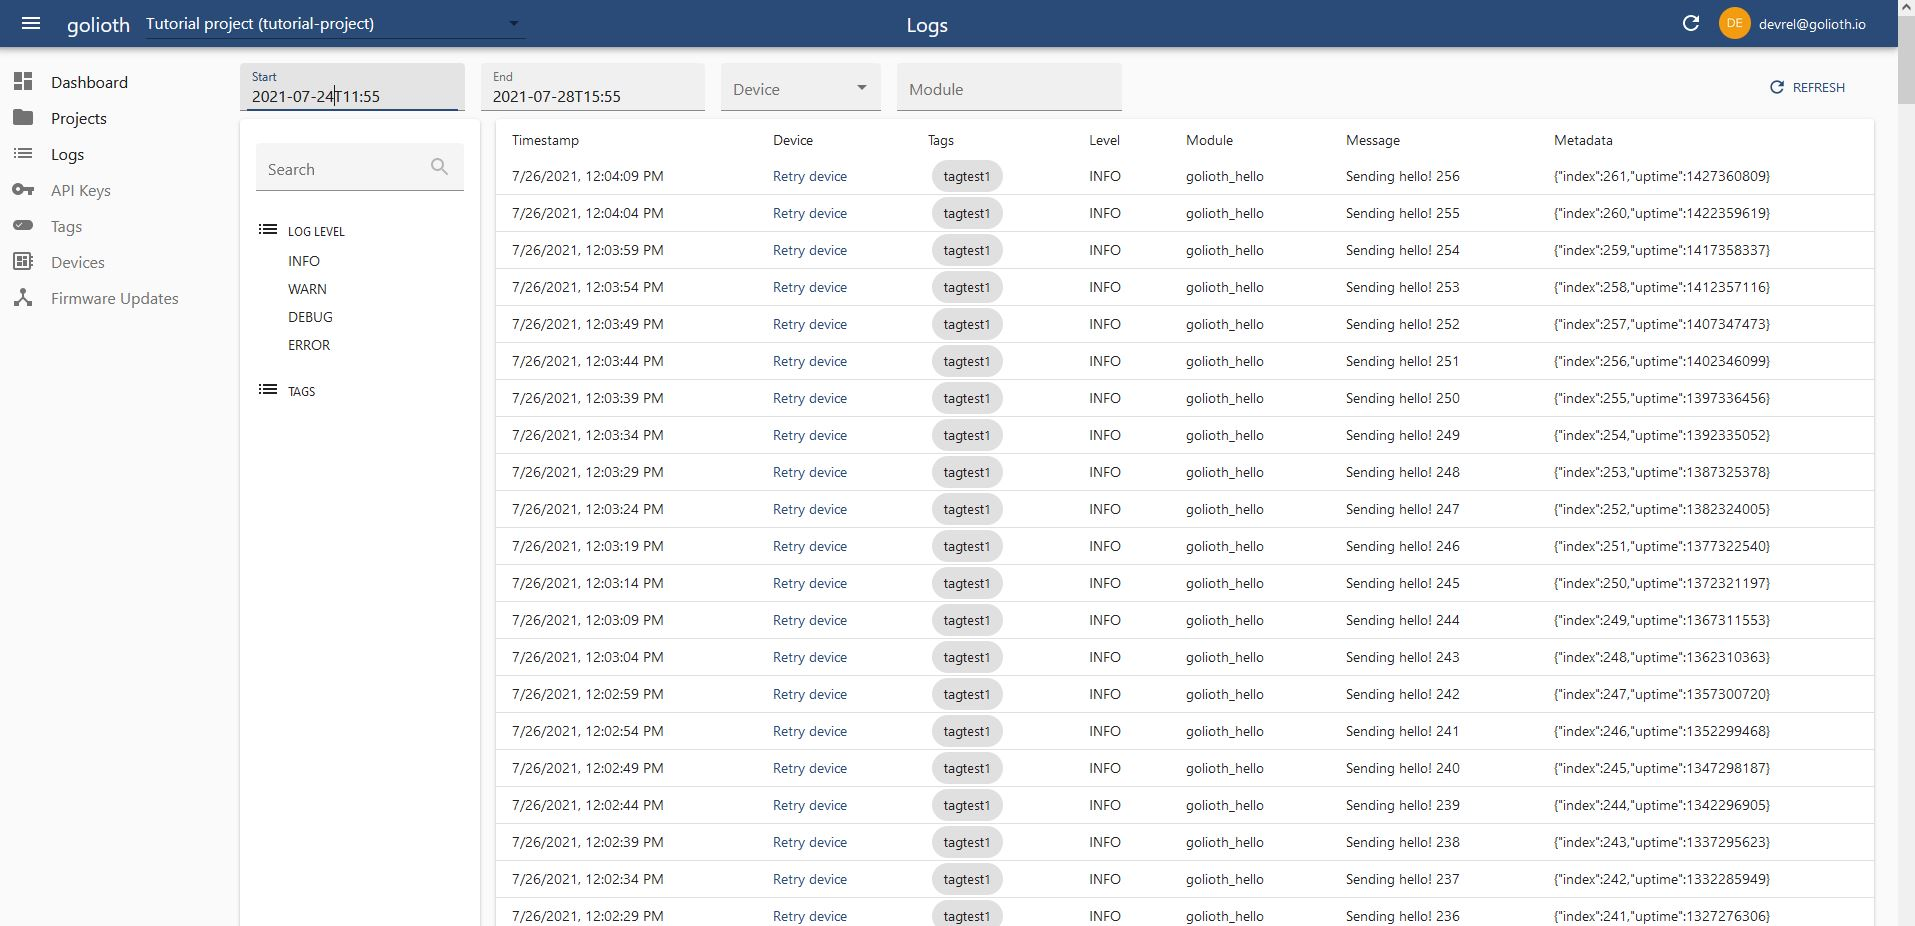
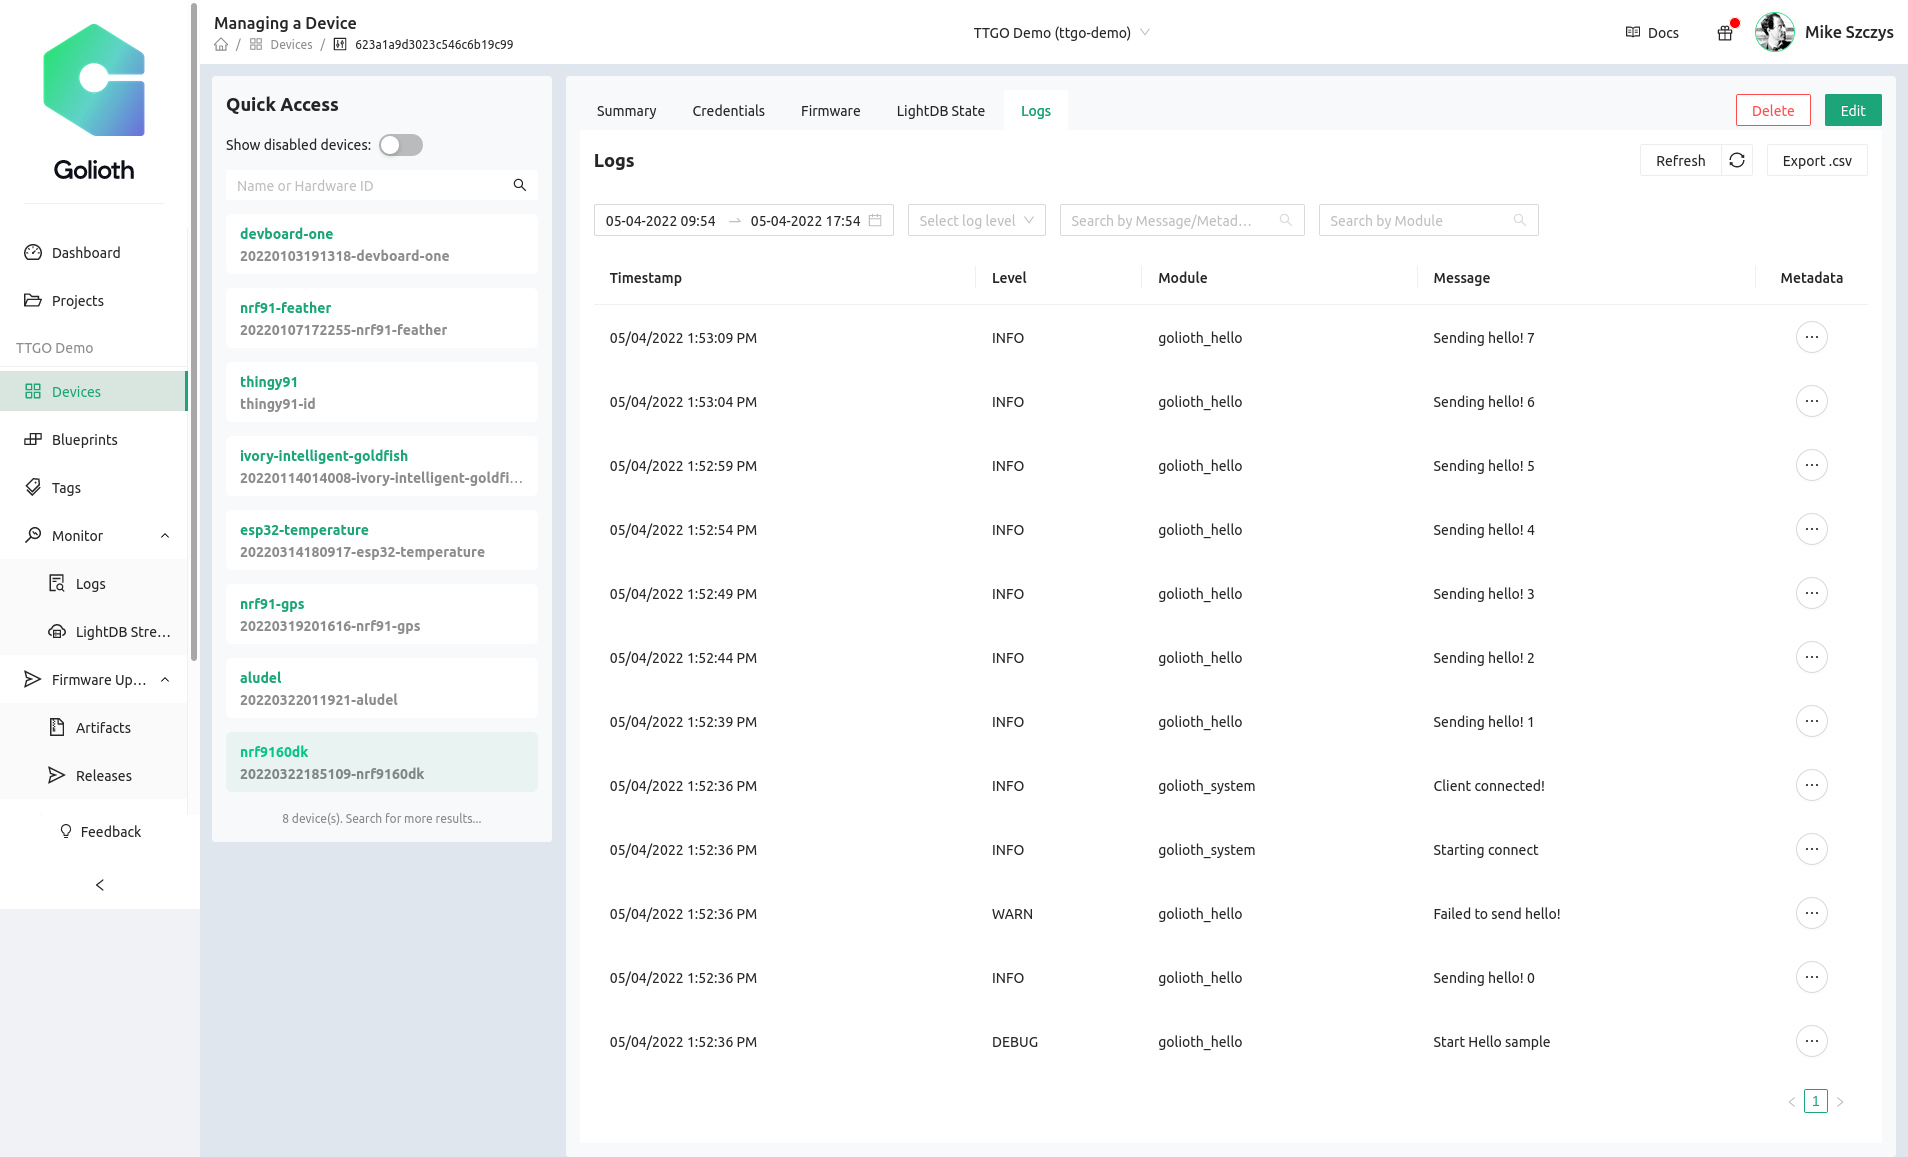
hardware: view logs: Update for current version
* Show console before CLI
* Update screenshot to reflect current Console
* Update CLI output to match hello sample output

diff --git a/docs/partials/viewing-logs-cli.md b/docs/partials/viewing-logs-cli.md
@@ -1,19 +1,27 @@
 After sending a log entry to Golioth you can search logs using `goliothctl logs`. Here is an example showing logs from the last 10 minutes:
 
-```
+```console
 $ goliothctl logs --interval 10m
-[2021-03-23 22:58:31 +0000 UTC] level:DEBUG  module:"golioth_hello"  message:"Log 1: 1"  metadata:{fields:{key:"func"  value:{string_value:"func_1"}}  fields:{key:"index"  value:{number_value:1}}  fields:{key:"uptime"  value:{number_value:1.301121e+09}}}  device_id:"<device-uuid>"
-[2021-03-23 22:58:31 +0000 UTC] level:WARN  module:"golioth_hello"  message:"Warn: 1"  metadata:{fields:{key:"index"  value:{number_value:1568}}  fields:{key:"uptime"  value:{number_value:1.301121e+09}}}  device_id:"<device-uuid>"
-[2021-03-23 22:58:31 +0000 UTC] level:DEBUG  module:"golioth_hello"  message:"Log 2: 1"  metadata:{fields:{key:"func"  value:{string_value:"func_2"}}  fields:{key:"index"  value:{number_value:1}}  fields:{key:"uptime"  value:{number_value:1.301121e+09}}}  device_id:"<device-uuid>"
-[2021-03-23 22:58:31 +0000 UTC] level:DEBUG  module:"golioth_hello"  message:"Debug info! 1"  metadata:{fields:{key:"func"  value:{string_value:"main"}}  fields:{key:"index"  value:{number_value:1}}  fields:{key:"uptime"  value:{number_value:1.301121e+09}}}  device_id:"<device-uuid>"
+[2022-05-04T18:52:36Z] level:DEBUG  module:"golioth_hello"  message:"Start Hello sample"  device_id:"623a1a9d3023c546c6b19c99" metadata:"{"func":"main","index":1,"uptime":68349792}"
+[2022-05-04T18:52:36Z] level:INFO  module:"golioth_hello"  message:"Sending hello! 0"  device_id:"623a1a9d3023c546c6b19c99" metadata:"{"index":2,"uptime":68349822}"
+[2022-05-04T18:52:36Z] level:WARN  module:"golioth_hello"  message:"Failed to send hello!"  device_id:"623a1a9d3023c546c6b19c99" metadata:"{"index":3,"uptime":68350341}"
+[2022-05-04T18:52:36Z] level:INFO  module:"golioth_system"  message:"Starting connect"  device_id:"623a1a9d3023c546c6b19c99" metadata:"{"index":4,"uptime":68350433}"
+[2022-05-04T18:52:36Z] level:INFO  module:"golioth_system"  message:"Client connected!"  device_id:"623a1a9d3023c546c6b19c99" metadata:"{"index":5,"uptime":68682373}"
+[2022-05-04T18:52:39Z] level:INFO  module:"golioth_hello"  message:"Sending hello! 1"  device_id:"623a1a9d3023c546c6b19c99" metadata:"{"index":6,"uptime":73350402}"
+[2022-05-04T18:52:44Z] level:INFO  module:"golioth_hello"  message:"Sending hello! 2"  device_id:"623a1a9d3023c546c6b19c99" metadata:"{"index":7,"uptime":78351745}"
+[2022-05-04T18:52:49Z] level:INFO  module:"golioth_hello"  message:"Sending hello! 3"  device_id:"623a1a9d3023c546c6b19c99" metadata:"{"index":8,"uptime":83361450}"
+[2022-05-04T18:52:54Z] level:INFO  module:"golioth_hello"  message:"Sending hello! 4"  device_id:"623a1a9d3023c546c6b19c99" metadata:"{"index":9,"uptime":88370971}"
+[2022-05-04T18:52:59Z] level:INFO  module:"golioth_hello"  message:"Sending hello! 5"  device_id:"623a1a9d3023c546c6b19c99" metadata:"{"index":10,"uptime":93380676}"
+[2022-05-04T18:53:04Z] level:INFO  module:"golioth_hello"  message:"Sending hello! 6"  device_id:"623a1a9d3023c546c6b19c99" metadata:"{"index":11,"uptime":98390411}"
+[2022-05-04T18:53:09Z] level:INFO  module:"golioth_hello"  message:"Sending hello! 7"  device_id:"623a1a9d3023c546c6b19c99" metadata:"{"index":12,"uptime":103391693}"
 ```
 
-You can also filter the logs by Zephyr module. This could be a Golioth module, a Zephyr subsystem or your application. Here is an example showing the device IP address by filtering by Zephyr's `net_dhcpv4` module.
+You can also filter the logs by Zephyr module. This could be a Golioth module, a Zephyr subsystem or your application. You can see the module names are being reported in the output above. This example filters for the messages sent by the `golioth_system` module:
 
-```
-goliothctl logs --interval 1h --module net_dhcpv4
-[2021-03-23 22:37:00 +0000 UTC] level:INFO  module:"net_dhcpv4"  message:"Received: 192.168.84.23"  metadata:{fields:{key:"index"  value:{number_value:0}}  fields:{key:"uptime"  value:{number_value:5.079e+06}}}  device_id:"<device-uuid>"
+```console
+$ goliothctl logs --interval 1h --module golioth_system
+[2022-05-04T18:52:36Z] level:INFO  module:"golioth_system"  message:"Starting connect"  device_id:"623a1a9d3023c546c6b19c99" metadata:"{"index":4,"uptime":68350433}"
+[2022-05-04T18:52:36Z] level:INFO  module:"golioth_system"  message:"Client connected!"  device_id:"623a1a9d3023c546c6b19c99" metadata:"{"index":5,"uptime":68682373}"
 ```
 
 You can check for more commands to search logs on the [goliothctl logs](/reference/command-line-tools/goliothctl/goliothctl_logs) reference docs.
-

diff --git a/docs/partials/viewing-logs-console.md b/docs/partials/viewing-logs-console.md
@@ -1,5 +1,5 @@
-You can also use [Golioth Console](https://console.golioth.io) to check the logs.
+You can use [Golioth Console](https://console.golioth.io) to check the logs.
 
 ![Console](./assets/console.jpg)
 
-Filtering is selectable via the menu items at the top, including date ranges, devices, modules and more. Log levels are selectable on the left side menu.
+Filtering is selectable via the menu items, including date ranges, devices, log levels, modules and more.

diff --git a/docs/hardware/4-nrf91/2-quickstart/6-view-logs.md b/docs/hardware/4-nrf91/2-quickstart/6-view-logs.md
@@ -3,14 +3,14 @@ id: view-logs
 title: View Logs on an nRF91
 ---
 
-### Viewing logs via Goliothctl
-
-import LogsCLI from '/docs/partials/viewing-logs-cli.md'
-
-<LogsCLI/>
-
 ### Viewing logs via the Golioth Console Interface
 
 import LogsConsole from '/docs/partials/viewing-logs-console.md'
 
 <LogsConsole/>
+
+### Viewing logs via Goliothctl
+
+import LogsCLI from '/docs/partials/viewing-logs-cli.md'
+
+<LogsCLI/>

diff --git a/docs/hardware/3-esp32/2-quickstart/4-view-logs.md b/docs/hardware/3-esp32/2-quickstart/4-view-logs.md
@@ -3,14 +3,14 @@ id: view-logs
 title: View Logs
 ---
 
-### Viewing logs via Goliothctl
-
-import LogsCLI from '/docs/partials/viewing-logs-cli.md'
-
-<LogsCLI/>
-
 ### Viewing logs via the Golioth Console Interface
 
 import LogsConsole from '/docs/partials/viewing-logs-console.md'
 
 <LogsConsole/>
+
+### Viewing logs via Goliothctl
+
+import LogsCLI from '/docs/partials/viewing-logs-cli.md'
+
+<LogsCLI/>
